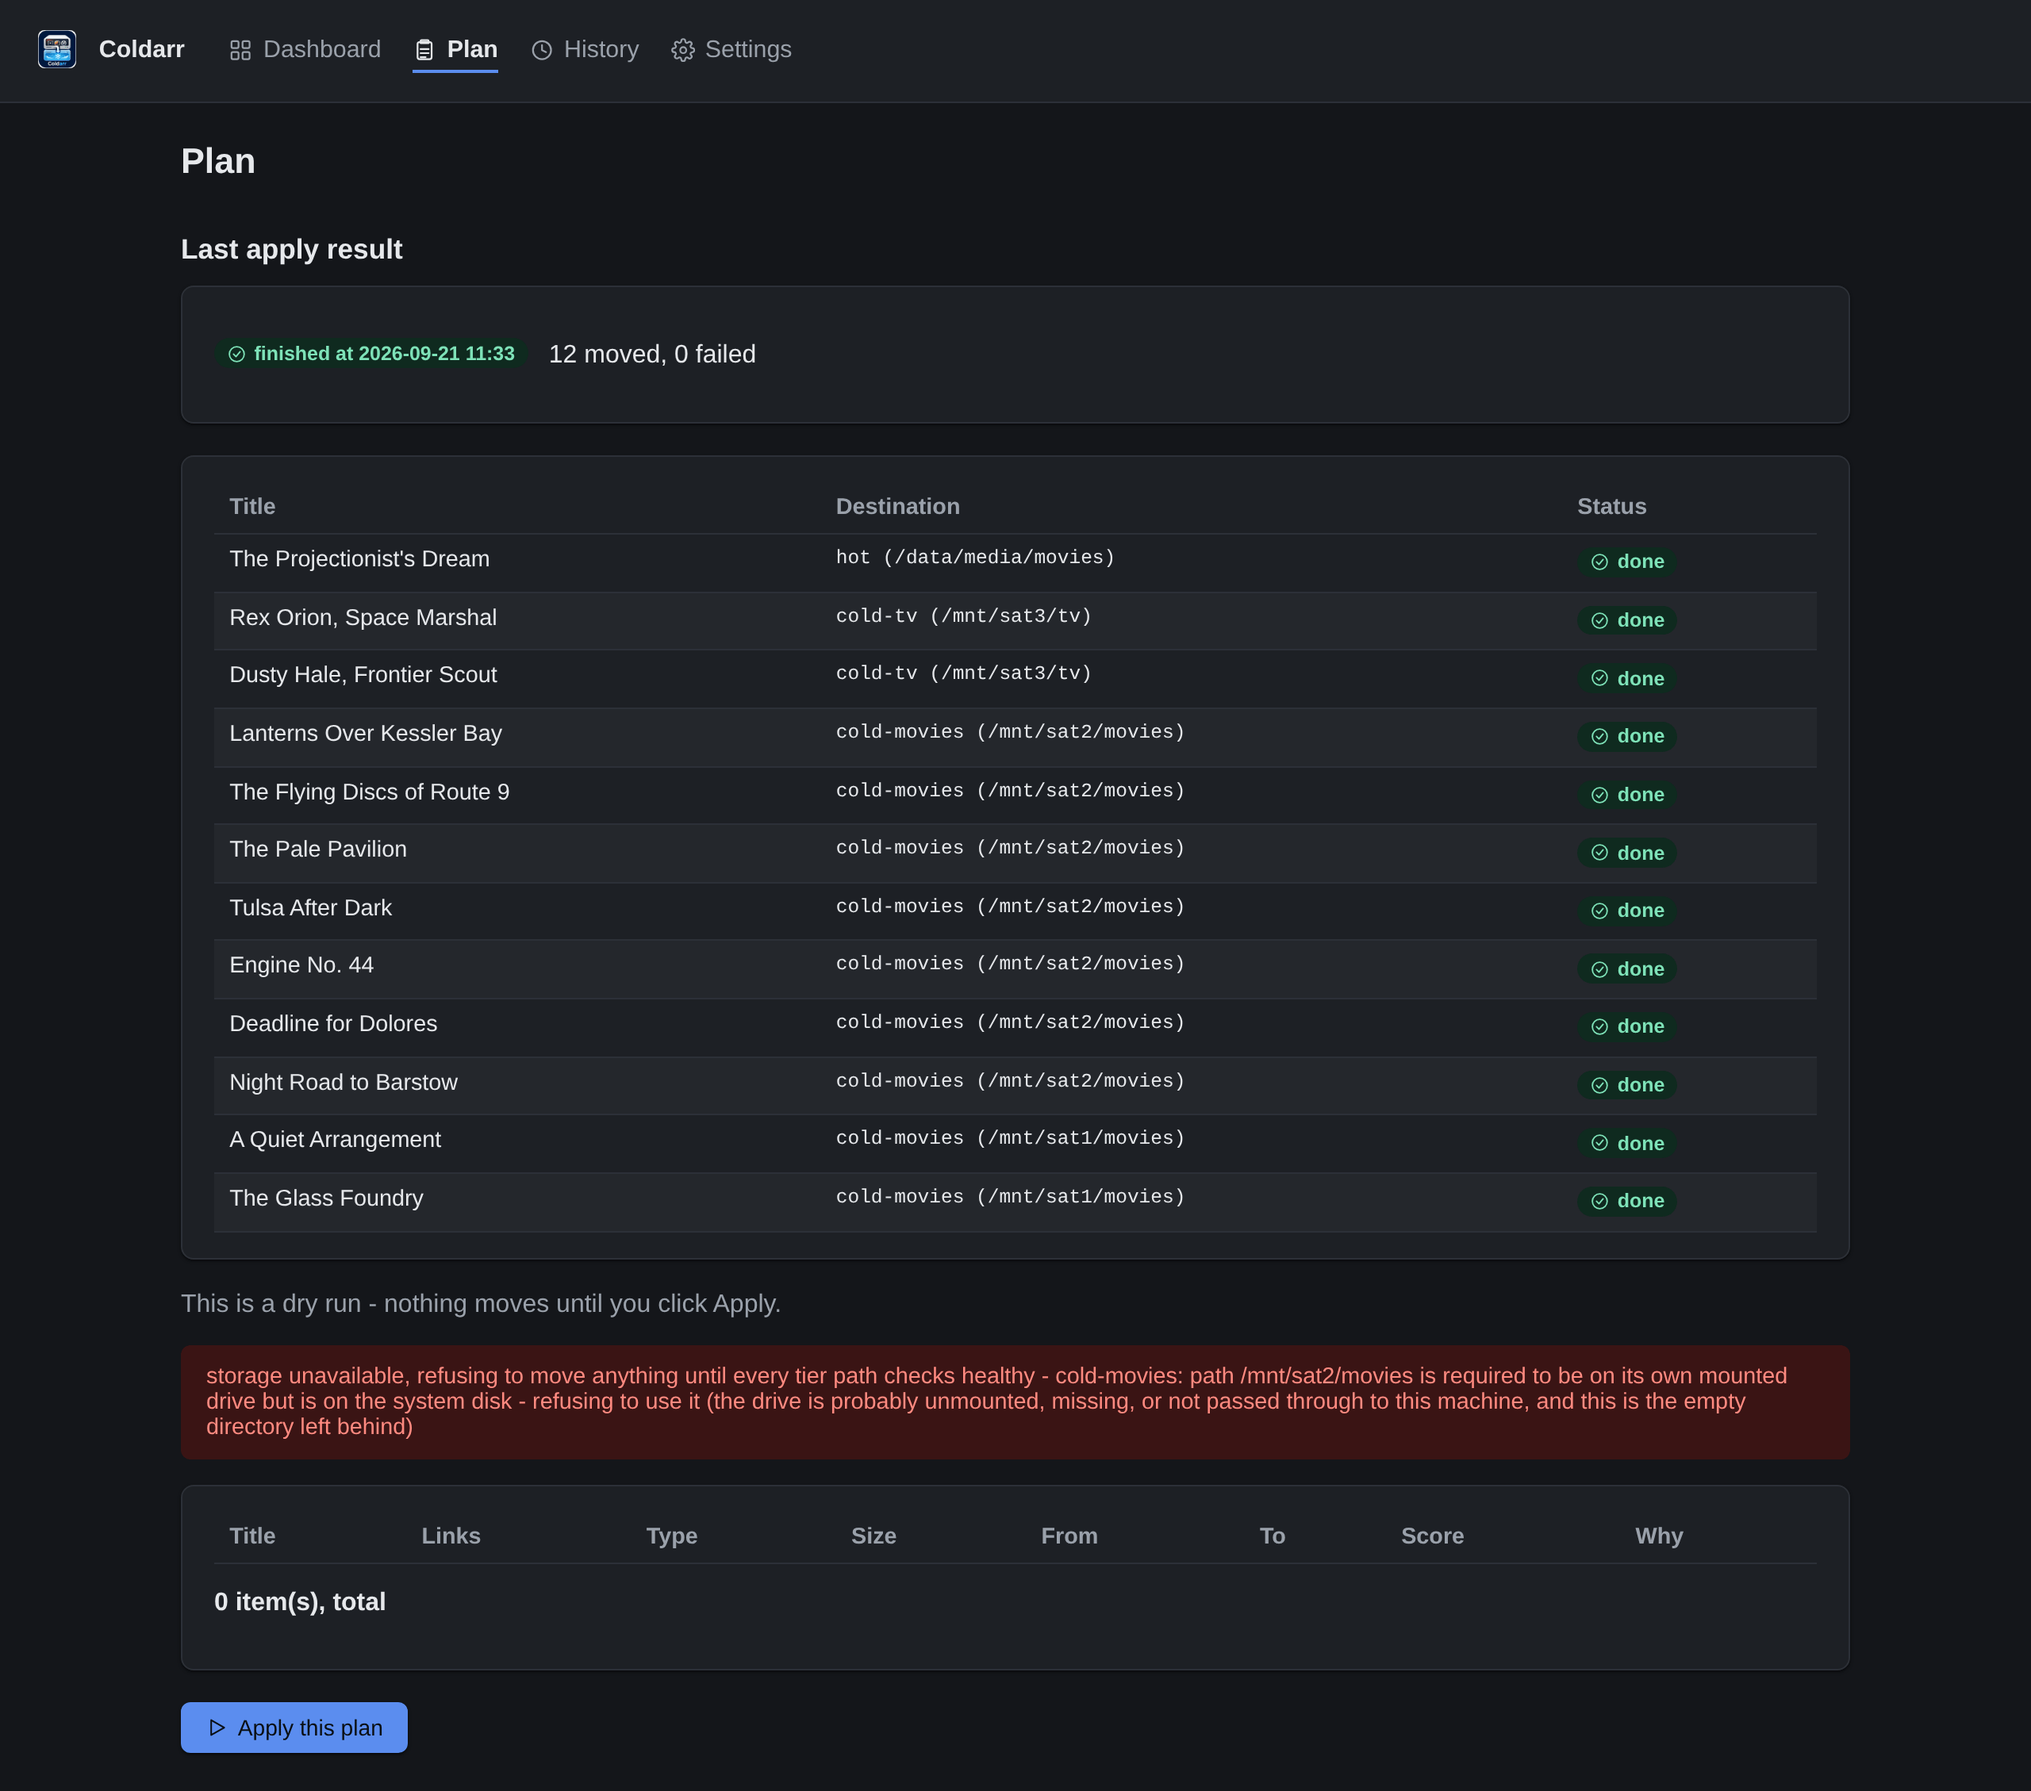
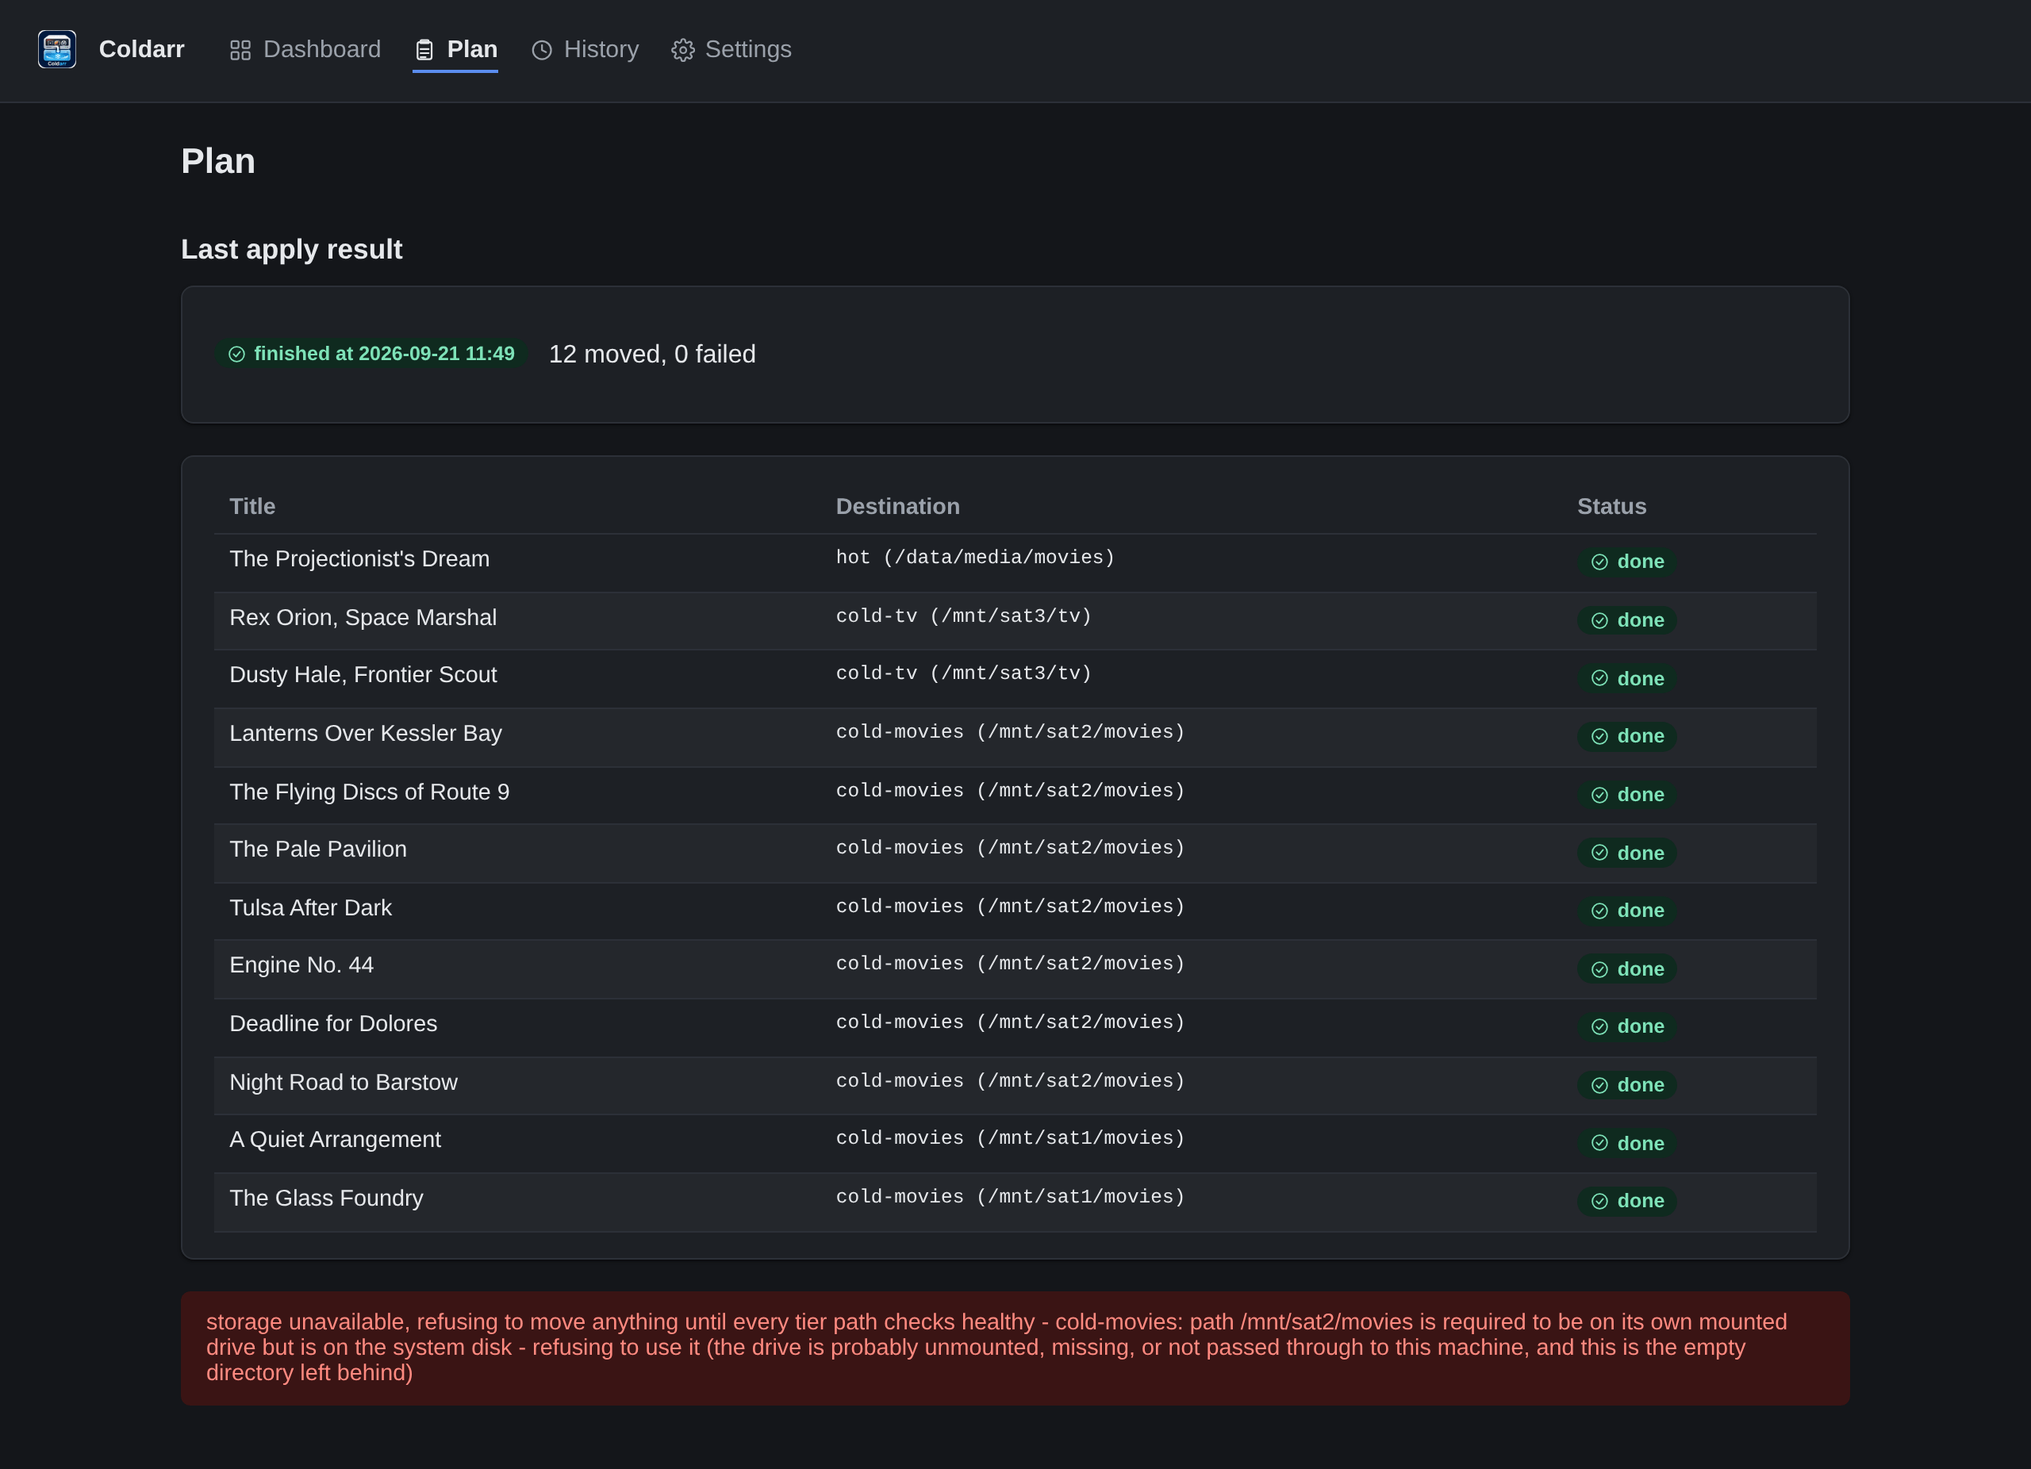
fix(plan): show only the refusal when a plan can't be built
Every refusal - moves still in flight, a missing drive, a failed
inventory - returned the plan with only its error set. Empty stayed
false, so the page fell through to the has-a-plan branch and rendered an
empty table, "0 item(s), total" and an Apply this plan button under the
error saying nothing may move. A refused Apply re-rendered the same way.
Apply itself still refused server-side, so nothing moved, but the page
contradicted itself.

A plan error now replaces the whole dry-run section, including the
"nothing moves until you click Apply" line. The last apply result above
it still shows.

diff --git a/internal/webui/templates/plan.html b/internal/webui/templates/plan.html
@@ -7,9 +7,11 @@
 {{end}}
 
 {{if not .Run.Running}}
+{{if .Plan.Error}}
+{{/* A refused plan is only the refusal: there is nothing to preview or apply. */}}
+<div class="alert alert-error">{{.Plan.Error}}</div>
+{{else}}
 <p class="muted">This is a dry run - nothing moves until you click Apply.</p>
-
-{{if .Plan.Error}}<div class="alert alert-error">{{.Plan.Error}}</div>{{end}}
 
 {{if .Plan.Empty}}
 <div class="card empty-state">
@@ -56,6 +58,7 @@
 {{range .Plan.Warnings}}<li>{{.}}</li>{{end}}
 </ul>
 </div>
+{{end}}
 {{end}}
 {{end}}
 {{end}}

diff --git a/internal/webui/handlers_plan_test.go b/internal/webui/handlers_plan_test.go
@@ -4,6 +4,7 @@ import (
 	"encoding/json"
 	"net/http"
 	"net/http/httptest"
+	"os"
 	"path/filepath"
 	"strings"
 	"sync"
@@ -188,5 +189,97 @@ func TestStartApply_StartsUserDataRestoreOnceAtVeryEnd(t *testing.T) {
 	mu.Unlock()
 	if got != "confirmed,task-resolved,task-started" {
 		t.Fatalf("Jellyfin events = %q, want confirmation then exactly one task resolution/start", got)
+	}
+}
+
+// planOffersApply reports whether a rendered /plan page shows a plan to
+// act on: the item count under the table, or the Apply form itself.
+func planOffersApply(body string) bool {
+	return strings.Contains(body, `action="/plan/apply"`) || strings.Contains(body, "item(s)")
+}
+
+// TestPlanPage_RefusalShowsNoPlan pins that a refused plan is only the
+// refusal. Every refusal left Plan.Empty false with no entries, so the page
+// fell through to the has-a-plan branch: an empty table, "0 item(s), total"
+// and an Apply button beneath the error saying nothing may move.
+func TestPlanPage_RefusalShowsNoPlan(t *testing.T) {
+	cases := []struct {
+		name    string
+		breakIt func(t *testing.T, radarr *fakeRadarr, coldDir string)
+		want    string // in the rendered refusal
+	}{
+		{
+			name: "healthy plan still offers apply",
+		},
+		{
+			name: "drive missing",
+			breakIt: func(t *testing.T, _ *fakeRadarr, coldDir string) {
+				if err := os.RemoveAll(coldDir); err != nil {
+					t.Fatalf("removing cold tier: %v", err)
+				}
+			},
+			want: "storage unavailable, refusing to move anything",
+		},
+		{
+			name: "moves still in flight",
+			breakIt: func(_ *testing.T, radarr *fakeRadarr, _ string) {
+				radarr.setActiveMoveCommands(1)
+			},
+			want: "Radarr is still executing 1 move command(s)",
+		},
+	}
+	for _, tc := range cases {
+		t.Run(tc.name, func(t *testing.T) {
+			dir, hotDir, coldDir := testTierDirs(t)
+			radarr := newFakeRadarr(t, hotDir)
+			srv := newTestServer(t, dir, hotDir, coldDir, radarr.URL, "", false)
+			if tc.breakIt != nil {
+				tc.breakIt(t, radarr, coldDir)
+			}
+
+			rec := httptest.NewRecorder()
+			srv.handlePlanPage(rec, httptest.NewRequest(http.MethodGet, "/plan", nil))
+			body := rec.Body.String()
+
+			if tc.want == "" {
+				if !planOffersApply(body) || !strings.Contains(body, "Movie A") {
+					t.Fatalf("healthy plan should list Movie A and offer Apply, got:\n%s", body)
+				}
+				return
+			}
+			if !strings.Contains(body, tc.want) {
+				t.Fatalf("page should show the refusal %q, got:\n%s", tc.want, body)
+			}
+			if planOffersApply(body) {
+				t.Fatalf("refused plan still renders a plan table or Apply button:\n%s", body)
+			}
+			if strings.Contains(body, "nothing moves until you click Apply") {
+				t.Fatalf("refused plan still says it's a dry run awaiting Apply:\n%s", body)
+			}
+		})
+	}
+}
+
+// TestApplyStart_RefusalShowsNoPlan covers the other way onto a refused
+// plan: an Apply that startApply turns down re-renders /plan with the
+// error (renderPlanError), which must not offer the same Apply again.
+func TestApplyStart_RefusalShowsNoPlan(t *testing.T) {
+	dir, hotDir, coldDir := testTierDirs(t)
+	radarr := newFakeRadarr(t, hotDir)
+	srv := newTestServer(t, dir, hotDir, coldDir, radarr.URL, "", false)
+	radarr.setActiveMoveCommands(1)
+
+	rec := httptest.NewRecorder()
+	srv.handleApplyStart(rec, httptest.NewRequest(http.MethodPost, "/plan/apply", nil))
+	body := rec.Body.String()
+
+	if !strings.Contains(body, "refusing to apply") {
+		t.Fatalf("apply should have been refused, got %d:\n%s", rec.Code, body)
+	}
+	if planOffersApply(body) {
+		t.Fatalf("refused apply re-renders a plan table or Apply button:\n%s", body)
+	}
+	if len(radarr.calls()) != 0 {
+		t.Fatalf("refused apply still asked Radarr to move: %v", radarr.calls())
 	}
 }

diff --git a/README.md b/README.md
@@ -8,7 +8,7 @@
   <a href="LICENSE.md"><img src="https://img.shields.io/github/license/voc0der/Coldarr" alt="License"></a>
   <a href="https://github.com/voc0der/Coldarr/releases/latest"><img src="https://img.shields.io/github/v/release/voc0der/Coldarr" alt="Latest release"></a>
   <a href="https://github.com/voc0der/Coldarr/actions/workflows/ci.yml"><img src="https://img.shields.io/github/actions/workflow/status/voc0der/Coldarr/ci.yml?branch=main&label=CI" alt="CI status"></a>
-  <a href="CONTRIBUTING.md#coverage"><img src="https://img.shields.io/badge/coverage-62.3%25-yellow" alt="Test coverage"></a>
+  <a href="CONTRIBUTING.md#coverage"><img src="https://img.shields.io/badge/coverage-63.0%25-yellow" alt="Test coverage"></a>
   <a href="https://hub.docker.com/r/voc0der/coldarr"><img src="https://img.shields.io/docker/pulls/voc0der/coldarr" alt="Docker pulls"></a>
 </p>
 
